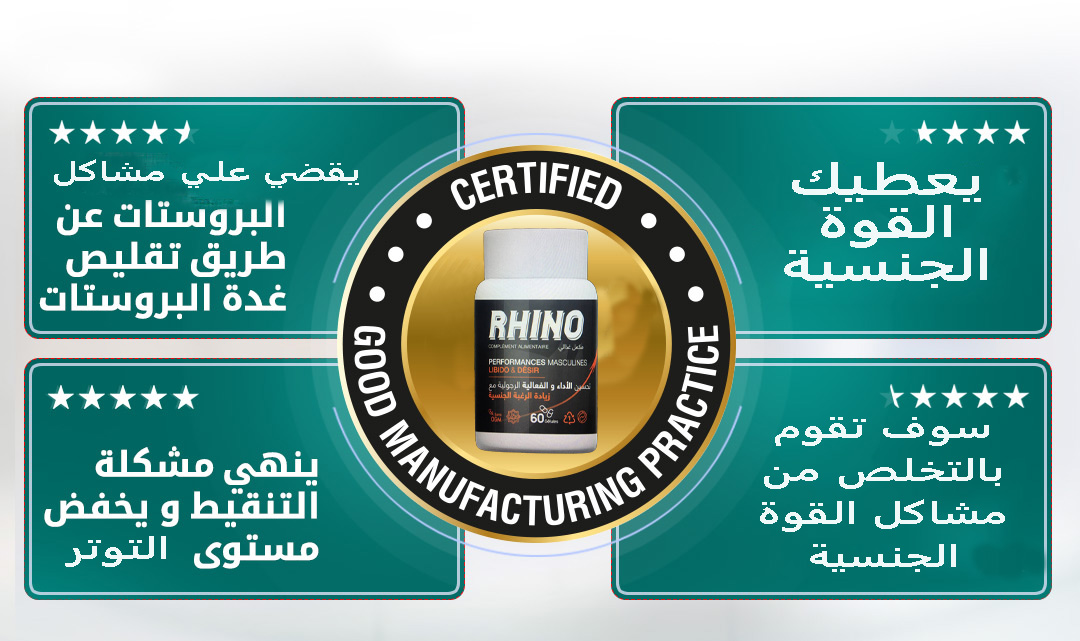
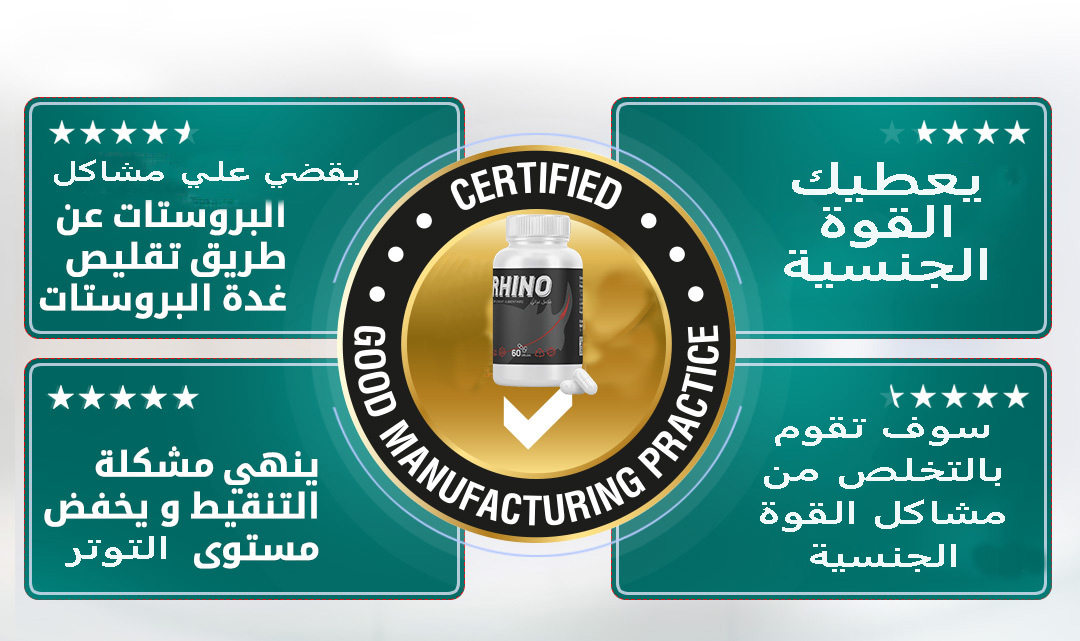
edited cssd

Changed region(s): [[0.4278, 0.312, 0.6111, 0.7176]]

diff --git a/index.html b/index.html
@@ -173,6 +173,17 @@
                 </div>
 
     </div>
+		<div class="row">
+
+            	<div class="col-xs-12">
+
+                	<a href="#order"><img class="lazy" src="images/7.jpg" alt="" /></a>
+
+		
+
+                </div>
+
+    </div>
 
 				<div class="row">
 
@@ -641,7 +652,7 @@ document.getElementById(divNum[i]).style.display = "none"; }
 
 
         <div style="text-align: center;" class="Start1">
-<img style="width: 28%;
+<img style="width: 75%;
 margin: auto;" src="images/Untitled-1.png" alt="">
            
            
